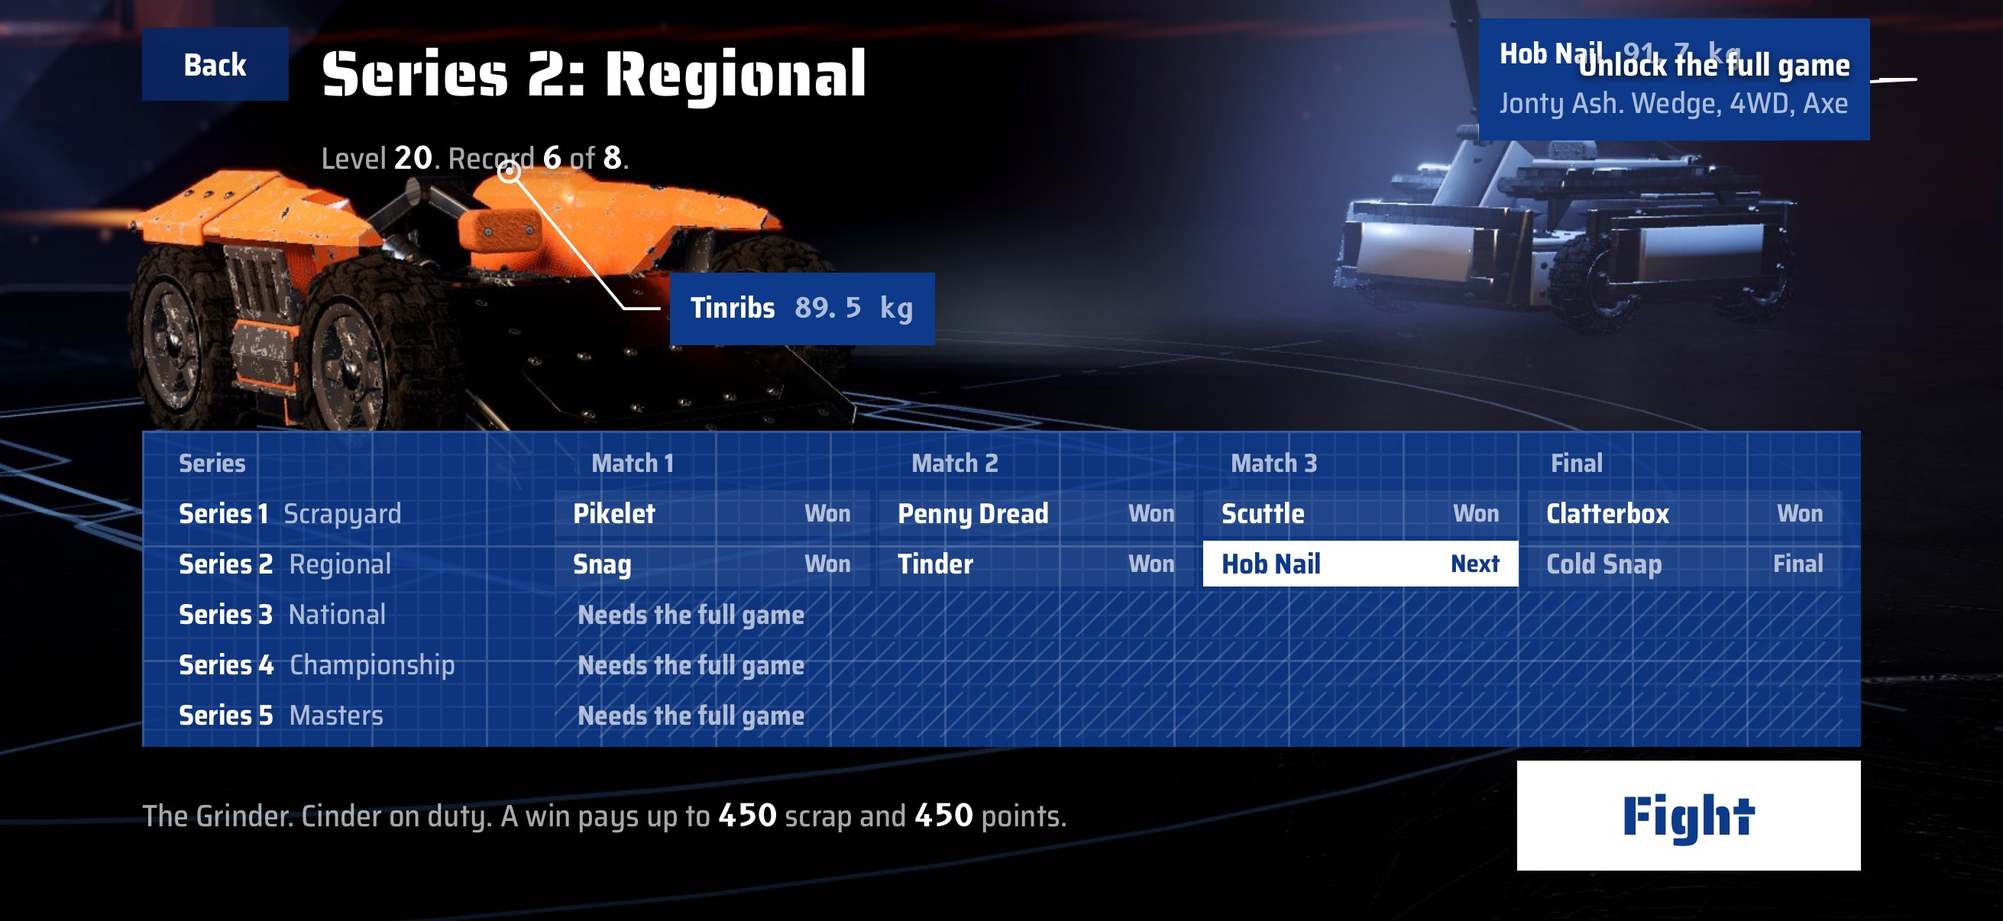
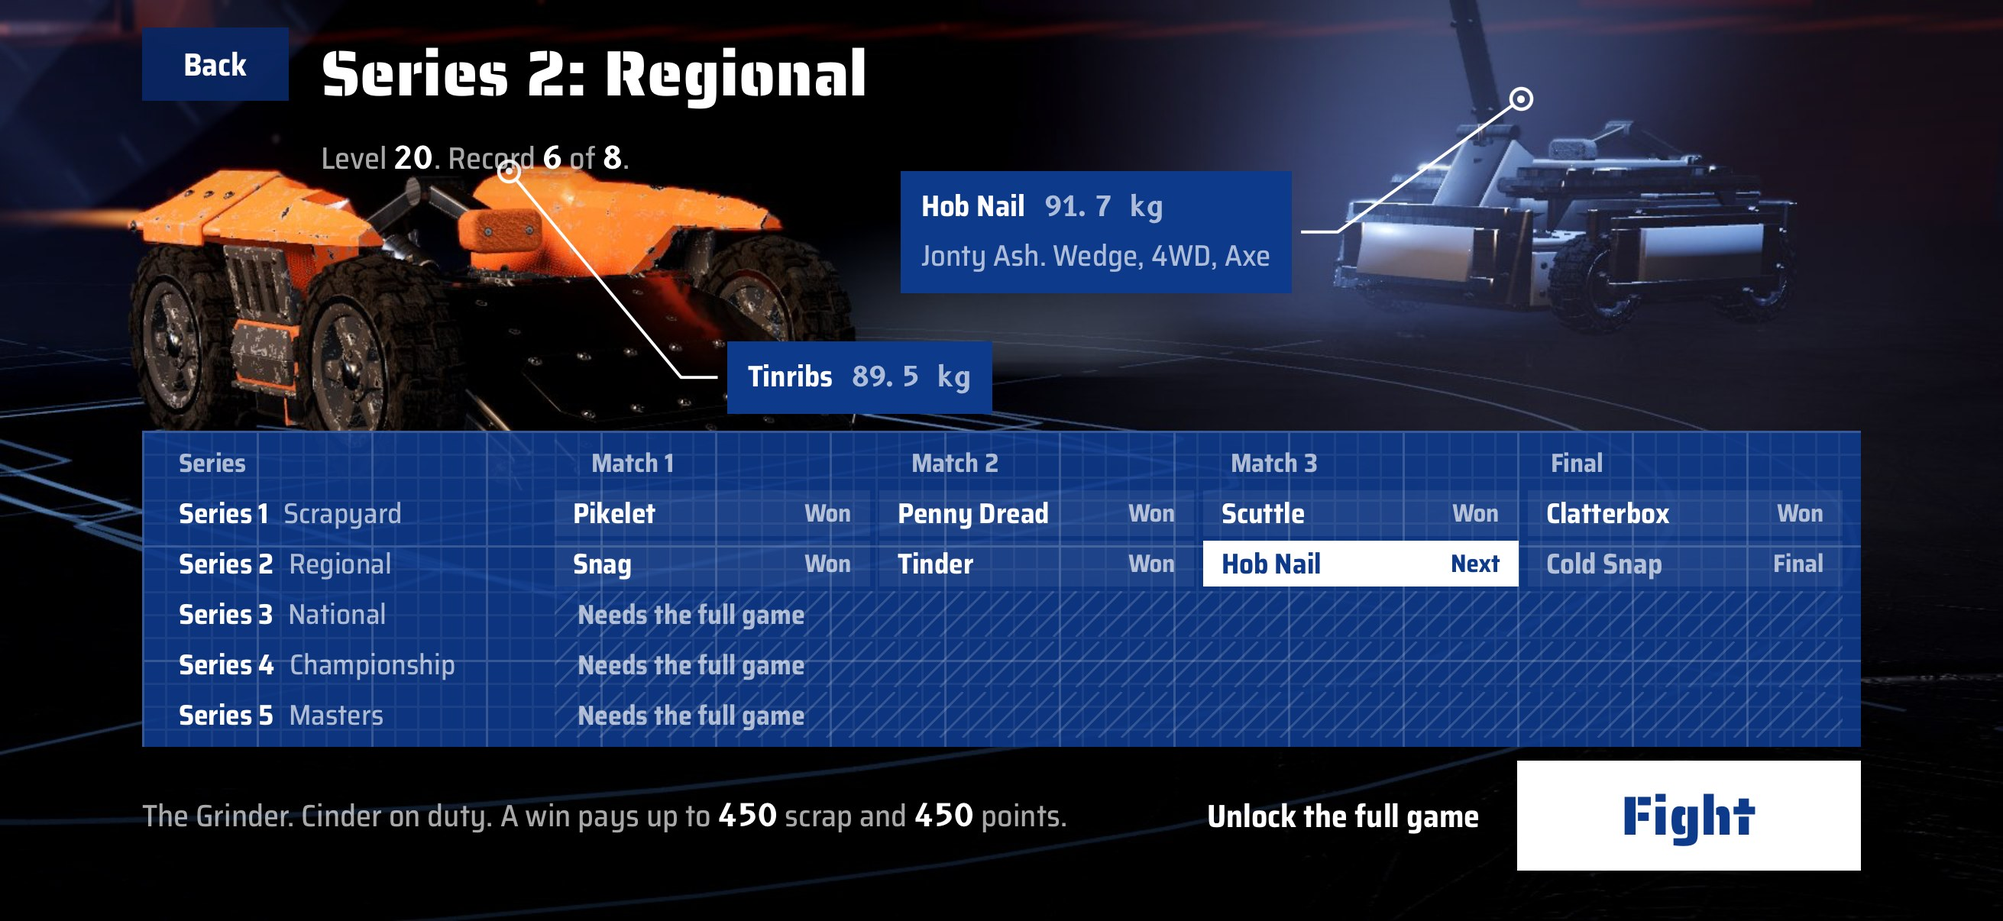
Wave C menus: every stage screen captured at 956 x 440 and 874 x 402 over the real stage renders, review page rebuilt (before / mockup / built, other screens, loading hand over, tiers, both owner switches), notes (tests green incl. hazard determinism after the merge, self test 1027/0, build-sim)
Claude-Session: https://claude.ai/code/session_01Ug4FwDcH494f9qsscef8vF

diff --git a/docs/look/menus-arena-built.html b/docs/look/menus-arena-built.html
@@ -38,12 +38,16 @@ rows lit by the floods and falling off, a faint cold rim, phone glints, the back
 through the venue kit's own crowd interface; the pyro is a narrow fast jet off the gate's own launchers,
 fired on arrival and on a win and never looping; the close screens get moving heads through soft haze
 cones; a blueprint of the machine is projected on the floor round the plinth.</p>
-<section><h2>Main menu</h2><p>The machine is the hero now: about 37 % of the width (the mockup had it at 17 %), lit by the stage key so the orange reads orange. The gate is framed between the machine and the career plate, a jet on each of its launchers on arrival.</p><div class="trio"><figure><img loading="lazy" src="menus-arena/sim/before-menu-956.jpg" alt="before"><figcaption><b>Before.</b> Today's app at 956 x 440.</figcaption></figure><figure><img loading="lazy" src="menus-arena/mockup/menu.jpg" alt="mockup"><figcaption><b>Mockup.</b> Direction A over staging 2 (A2 page).</figcaption></figure><figure><div class="missing">built<br>not captured</div><figcaption><b>Built.</b> The app at 956 x 440, over the real stage render.</figcaption></figure></div><div class="duo"><figure><img loading="lazy" src="menus-arena/sim/built-menu-874.jpg" alt="built 874"><figcaption><b>Built</b> at 874 x 402.</figcaption></figure><figure><img loading="lazy" src="menus-arena/stage/built-menu-956.jpg" alt="stage"><figcaption>The stage alone (desktop Godot, high tier).</figcaption></figure></div></section><section><h2>Builder</h2><p>Close: the bowl is out of frame, so four moving heads sweep through haze behind the machine as soft cones (no fog boxes, no hard edges).</p><div class="trio"><figure><img loading="lazy" src="menus-arena/sim/before-builder-956.jpg" alt="before"><figcaption><b>Before.</b> Today's app at 956 x 440.</figcaption></figure><figure><img loading="lazy" src="menus-arena/mockup/builder.jpg" alt="mockup"><figcaption><b>Mockup.</b> Direction A over staging 2 (A2 page).</figcaption></figure><figure><div class="missing">built<br>not captured</div><figcaption><b>Built.</b> The app at 956 x 440, over the real stage render.</figcaption></figure></div><div class="duo"><figure><img loading="lazy" src="menus-arena/sim/built-builder-874.jpg" alt="built 874"><figcaption><b>Built</b> at 874 x 402.</figcaption></figure><figure><img loading="lazy" src="menus-arena/stage/built-builder-956.jpg" alt="stage"><figcaption>The stage alone (desktop Godot, high tier).</figcaption></figure></div></section><section><h2>Shop</h2><p>The focused part pulled out and framed close, the arena dark behind.</p><div class="trio"><figure><img loading="lazy" src="menus-arena/sim/before-shop-956.jpg" alt="before"><figcaption><b>Before.</b> Today's app at 956 x 440.</figcaption></figure><figure><img loading="lazy" src="menus-arena/mockup/shop.jpg" alt="mockup"><figcaption><b>Mockup.</b> Direction A over staging 2 (A2 page).</figcaption></figure><figure><div class="missing">built<br>not captured</div><figcaption><b>Built.</b> The app at 956 x 440, over the real stage render.</figcaption></figure></div><div class="duo"><figure><img loading="lazy" src="menus-arena/sim/built-shop-874.jpg" alt="built 874"><figcaption><b>Built</b> at 874 x 402.</figcaption></figure><figure><img loading="lazy" src="menus-arena/stage/built-shop-956.jpg" alt="stage"><figcaption>The stage alone (desktop Godot, high tier).</figcaption></figure></div></section><section><h2>Series board</h2><p>The machine and the next opponent across the floor, in the top half over the schedule; the platform is down, so the projected blueprint of the machine shows on the floor.</p><div class="trio"><figure><img loading="lazy" src="menus-arena/sim/before-board-956.jpg" alt="before"><figcaption><b>Before.</b> Today's app at 956 x 440.</figcaption></figure><figure><img loading="lazy" src="menus-arena/mockup/board.jpg" alt="mockup"><figcaption><b>Mockup.</b> Direction A over staging 2 (A2 page).</figcaption></figure><figure><div class="missing">built<br>not captured</div><figcaption><b>Built.</b> The app at 956 x 440, over the real stage render.</figcaption></figure></div><div class="duo"><figure><img loading="lazy" src="menus-arena/sim/built-board-874.jpg" alt="built 874"><figcaption><b>Built</b> at 874 x 402.</figcaption></figure><figure><img loading="lazy" src="menus-arena/stage/built-board-956.jpg" alt="stage"><figcaption>The stage alone (desktop Godot, high tier).</figcaption></figure></div></section><section><h2>Match result</h2><p>The machine centred under the gate; after a win both jets fire with the gerbs.</p><div class="trio"><figure><img loading="lazy" src="menus-arena/sim/before-result-956.jpg" alt="before"><figcaption><b>Before.</b> Today's app at 956 x 440.</figcaption></figure><figure><img loading="lazy" src="menus-arena/mockup/result.jpg" alt="mockup"><figcaption><b>Mockup.</b> Direction A over staging 2 (A2 page).</figcaption></figure><figure><div class="missing">built<br>not captured</div><figcaption><b>Built.</b> The app at 956 x 440, over the real stage render.</figcaption></figure></div><div class="duo"><figure><img loading="lazy" src="menus-arena/sim/built-result-874.jpg" alt="built 874"><figcaption><b>Built</b> at 874 x 402.</figcaption></figure><figure><img loading="lazy" src="menus-arena/stage/built-result-956.jpg" alt="stage"><figcaption>The stage alone (desktop Godot, high tier).</figcaption></figure></div></section>
+<section><h2>Main menu</h2><p>The machine is the hero now: about 37 % of the width (the mockup had it at 17 %), standing clear above the title block, lit by the stage key so the orange reads orange. The gate is framed between the machine and the career plate, a jet on each of its launchers on arrival, the bowl and the truss ring's shafts above.</p><div class="trio"><figure><img loading="lazy" src="menus-arena/sim/before-menu-956.jpg" alt="before"><figcaption><b>Before.</b> Today's app at 956 x 440.</figcaption></figure><figure><img loading="lazy" src="menus-arena/mockup/menu.jpg" alt="mockup"><figcaption><b>Mockup.</b> Direction A over staging 2 (A2 page).</figcaption></figure><figure><img loading="lazy" src="menus-arena/sim/built-menu-956.jpg" alt="built"><figcaption><b>Built.</b> The app at 956 x 440, over the real stage render.</figcaption></figure></div><div class="duo"><figure><img loading="lazy" src="menus-arena/sim/built-menu-874.jpg" alt="built 874"><figcaption><b>Built</b> at 874 x 402.</figcaption></figure><figure><img loading="lazy" src="menus-arena/stage/built-menu-956.jpg" alt="stage"><figcaption>The stage alone (desktop Godot, high tier).</figcaption></figure></div></section><section><h2>Builder</h2><p>Close: the bowl is out of frame, so four moving heads sweep through haze behind the machine as soft cones (no fog boxes, no hard edges).</p><div class="trio"><figure><img loading="lazy" src="menus-arena/sim/before-builder-956.jpg" alt="before"><figcaption><b>Before.</b> Today's app at 956 x 440.</figcaption></figure><figure><img loading="lazy" src="menus-arena/mockup/builder.jpg" alt="mockup"><figcaption><b>Mockup.</b> Direction A over staging 2 (A2 page).</figcaption></figure><figure><img loading="lazy" src="menus-arena/sim/built-builder-956.jpg" alt="built"><figcaption><b>Built.</b> The app at 956 x 440, over the real stage render.</figcaption></figure></div><div class="duo"><figure><img loading="lazy" src="menus-arena/sim/built-builder-874.jpg" alt="built 874"><figcaption><b>Built</b> at 874 x 402.</figcaption></figure><figure><img loading="lazy" src="menus-arena/stage/built-builder-956.jpg" alt="stage"><figcaption>The stage alone (desktop Godot, high tier).</figcaption></figure></div></section><section><h2>Shop</h2><p>The focused part pulled out and framed close, the arena dark behind.</p><div class="trio"><figure><img loading="lazy" src="menus-arena/sim/before-shop-956.jpg" alt="before"><figcaption><b>Before.</b> Today's app at 956 x 440.</figcaption></figure><figure><img loading="lazy" src="menus-arena/mockup/shop.jpg" alt="mockup"><figcaption><b>Mockup.</b> Direction A over staging 2 (A2 page).</figcaption></figure><figure><img loading="lazy" src="menus-arena/sim/built-shop-956.jpg" alt="built"><figcaption><b>Built.</b> The app at 956 x 440, over the real stage render.</figcaption></figure></div><div class="duo"><figure><img loading="lazy" src="menus-arena/sim/built-shop-874.jpg" alt="built 874"><figcaption><b>Built</b> at 874 x 402.</figcaption></figure><figure><img loading="lazy" src="menus-arena/stage/built-shop-956.jpg" alt="stage"><figcaption>The stage alone (desktop Godot, high tier).</figcaption></figure></div></section><section><h2>Series board</h2><p>The machine and the next opponent across the floor, in the top half over the schedule; the platform is down, so the projected blueprint of the machine shows on the floor.</p><div class="trio"><figure><img loading="lazy" src="menus-arena/sim/before-board-956.jpg" alt="before"><figcaption><b>Before.</b> Today's app at 956 x 440.</figcaption></figure><figure><img loading="lazy" src="menus-arena/mockup/board.jpg" alt="mockup"><figcaption><b>Mockup.</b> Direction A over staging 2 (A2 page).</figcaption></figure><figure><img loading="lazy" src="menus-arena/sim/built-board-956.jpg" alt="built"><figcaption><b>Built.</b> The app at 956 x 440, over the real stage render.</figcaption></figure></div><div class="duo"><figure><img loading="lazy" src="menus-arena/sim/built-board-874.jpg" alt="built 874"><figcaption><b>Built</b> at 874 x 402.</figcaption></figure><figure><img loading="lazy" src="menus-arena/stage/built-board-956.jpg" alt="stage"><figcaption>The stage alone (desktop Godot, high tier).</figcaption></figure></div></section><section><h2>Match result</h2><p>The machine centred under the gate; after a win both jets fire with the gerbs.</p><div class="trio"><figure><img loading="lazy" src="menus-arena/sim/before-result-956.jpg" alt="before"><figcaption><b>Before.</b> Today's app at 956 x 440.</figcaption></figure><figure><img loading="lazy" src="menus-arena/mockup/result.jpg" alt="mockup"><figcaption><b>Mockup.</b> Direction A over staging 2 (A2 page).</figcaption></figure><figure><img loading="lazy" src="menus-arena/sim/built-result-956.jpg" alt="built"><figcaption><b>Built.</b> The app at 956 x 440, over the real stage render.</figcaption></figure></div><div class="duo"><figure><img loading="lazy" src="menus-arena/sim/built-result-874.jpg" alt="built 874"><figcaption><b>Built</b> at 874 x 402.</figcaption></figure><figure><img loading="lazy" src="menus-arena/stage/built-result-956.jpg" alt="stage"><figcaption>The stage alone (desktop Godot, high tier).</figcaption></figure></div></section>
 <h2>Every other screen that shows the stage</h2>
-<p>The generic framing: the machine in the clear left, turning slowly, the arena behind.</p>
-<div class="grid"><p>Not captured yet.</p></div>
-<h2>Loading hand over, moves, tiers and the blueprint switch</h2>
-<div class="grid"><figure><img loading="lazy" src="menus-arena/stage/extra-loading-1.jpg" alt="extra-loading-1"><figcaption>Loading, row 2: the machine is being built in the dark, the venue down with the rig.</figcaption></figure><figure><img loading="lazy" src="menus-arena/stage/extra-loading-4.jpg" alt="extra-loading-4"><figcaption>Loading, lights row: the venue comes up with the stage lights; the menu arrives over the same frame.</figcaption></figure><figure><img loading="lazy" src="menus-arena/stage/extra-menu-move.jpg" alt="extra-menu-move"><figcaption>A move in progress: builder to main menu (0.75 s, eased).</figcaption></figure><figure><img loading="lazy" src="menus-arena/stage/extra-result-win.jpg" alt="extra-result-win"><figcaption>Result after a win: both jets and the gerbs.</figcaption></figure><figure><img loading="lazy" src="menus-arena/stage/extra-tier-medium.jpg" alt="extra-tier-medium"><figcaption>Medium tier: the kit's halved crowd and lights, no volumetric fog.</figcaption></figure><figure><img loading="lazy" src="menus-arena/stage/extra-tier-low.jpg" alt="extra-tier-low"><figcaption>Low tier: the bowl without its people, no jets, no shafts.</figcaption></figure><figure><img loading="lazy" src="menus-arena/stage/extra-board-noblueprint.jpg" alt="extra-board-noblueprint"><figcaption>The board with the projected blueprint switched off (MenuVenue.BLUEPRINT), for the owner's call.</figcaption></figure></div>
+<p>The generic framing: the machine in the clear left, turning slowly, the arena behind. Fixed on the way:
+the garage lists every machine at 402 pt, the retry, replays and events sentences sit on plates clear of the
+machine, ladder names never wrap, the quick fight arena cards no longer run into the Opponent heading, and
+the scouting report fits or scrolls in its own column with FIGHT always on screen. 956 x 440 shown; the
+874 x 402 set is in <code>menus-arena/sim/built-*-874.jpg</code>.</p>
+<div class="grid"><figure><img loading="lazy" src="menus-arena/sim/built-career-956.jpg" alt="career"><figcaption>Career</figcaption></figure><figure><img loading="lazy" src="menus-arena/sim/built-events-956.jpg" alt="events"><figcaption>Events</figcaption></figure><figure><img loading="lazy" src="menus-arena/sim/built-garage-956.jpg" alt="garage"><figcaption>Garage</figcaption></figure><figure><img loading="lazy" src="menus-arena/sim/built-ladder-956.jpg" alt="ladder"><figcaption>Ladder</figcaption></figure><figure><img loading="lazy" src="menus-arena/sim/built-loading-956.jpg" alt="loading"><figcaption>Loading</figcaption></figure><figure><img loading="lazy" src="menus-arena/sim/built-quick-956.jpg" alt="quick"><figcaption>Quick</figcaption></figure><figure><img loading="lazy" src="menus-arena/sim/built-replays-956.jpg" alt="replays"><figcaption>Replays</figcaption></figure><figure><img loading="lazy" src="menus-arena/sim/built-retry-956.jpg" alt="retry"><figcaption>Retry</figcaption></figure><figure><img loading="lazy" src="menus-arena/sim/built-rewards-956.jpg" alt="rewards"><figcaption>Rewards</figcaption></figure><figure><img loading="lazy" src="menus-arena/sim/built-scouting-956.jpg" alt="scouting"><figcaption>Scouting</figcaption></figure><figure><img loading="lazy" src="menus-arena/sim/built-settings-956.jpg" alt="settings"><figcaption>Settings</figcaption></figure><figure><img loading="lazy" src="menus-arena/sim/built-unlock-956.jpg" alt="unlock"><figcaption>Unlock</figcaption></figure><figure><img loading="lazy" src="menus-arena/sim/built-workshop-956.jpg" alt="workshop"><figcaption>Workshop</figcaption></figure></div>
+<h2>Loading hand over, moves, tiers and the two owner calls</h2>
+<div class="grid"><figure><img loading="lazy" src="menus-arena/stage/extra-loading-1.jpg" alt="extra-loading-1"><figcaption>Loading, row 2: the machine is being built in the dark, the venue down with the rig.</figcaption></figure><figure><img loading="lazy" src="menus-arena/stage/extra-loading-4.jpg" alt="extra-loading-4"><figcaption>Loading, lights row: the venue comes up with the stage lights; the menu arrives over the same frame.</figcaption></figure><figure><img loading="lazy" src="menus-arena/stage/extra-menu-move.jpg" alt="extra-menu-move"><figcaption>A move in progress: builder to main menu (0.75 s, eased).</figcaption></figure><figure><img loading="lazy" src="menus-arena/stage/extra-result-win.jpg" alt="extra-result-win"><figcaption>Result after a win: both jets and the gerbs.</figcaption></figure><figure><img loading="lazy" src="menus-arena/stage/extra-tier-medium.jpg" alt="extra-tier-medium"><figcaption>Medium tier: the kit's halved crowd and lights, no volumetric fog.</figcaption></figure><figure><img loading="lazy" src="menus-arena/stage/extra-tier-low.jpg" alt="extra-tier-low"><figcaption>Low tier: the bowl without its people, no jets, no shafts.</figcaption></figure><figure><img loading="lazy" src="menus-arena/stage/extra-board-noblueprint.jpg" alt="extra-board-noblueprint"><figcaption>Owner call 1: the board with the projected blueprint switched off (MenuVenue.BLUEPRINT).</figcaption></figure><figure><img loading="lazy" src="menus-arena/stage/extra-jet-co2.jpg" alt="extra-jet-co2"><figcaption>Owner call 2: the jets as white CO2 instead of flame (MenuVenue.JET_STYLE = "co2").</figcaption></figure></div>
 <h2>Cost</h2>
 <p>Desktop Godot at 1912 x 880, main menu, staging against today's showroom (in brackets). Relative numbers
 only; the phone's own frame time is owed from a device run.</p>

diff --git a/docs/look/menus-arena/build_page.py b/docs/look/menus-arena/build_page.py
@@ -14,8 +14,9 @@ OUT = os.path.join(LOOK, "menus-arena-built.html")
 
 SCREENS = [
     ("menu", "Main menu", "The machine is the hero now: about 37 % of the width (the mockup had it at 17 %), "
-     "lit by the stage key so the orange reads orange. The gate is framed between the machine and the "
-     "career plate, a jet on each of its launchers on arrival."),
+     "standing clear above the title block, lit by the stage key so the orange reads orange. The gate is "
+     "framed between the machine and the career plate, a jet on each of its launchers on arrival, the "
+     "bowl and the truss ring's shafts above."),
     ("builder", "Builder", "Close: the bowl is out of frame, so four moving heads sweep through haze behind the "
      "machine as soft cones (no fog boxes, no hard edges)."),
     ("shop", "Shop", "The focused part pulled out and framed close, the arena dark behind."),
@@ -86,7 +87,8 @@ def main():
         ("extra-result-win", "Result after a win: both jets and the gerbs."),
         ("extra-tier-medium", "Medium tier: the kit's halved crowd and lights, no volumetric fog."),
         ("extra-tier-low", "Low tier: the bowl without its people, no jets, no shafts."),
-        ("extra-board-noblueprint", "The board with the projected blueprint switched off (MenuVenue.BLUEPRINT), for the owner's call."),
+        ("extra-board-noblueprint", "Owner call 1: the board with the projected blueprint switched off (MenuVenue.BLUEPRINT)."),
+        ("extra-jet-co2", "Owner call 2: the jets as white CO2 instead of flame (MenuVenue.JET_STYLE = \"co2\")."),
     ]
     extra_html = "".join(f'<figure>{img("menus-arena/stage/" + n + ".jpg", n)}<figcaption>{c}</figcaption></figure>'
                          for n, c in extras)
@@ -133,9 +135,13 @@ fired on arrival and on a win and never looping; the close screens get moving he
 cones; a blueprint of the machine is projected on the floor round the plinth.</p>
 {''.join(parts)}
 <h2>Every other screen that shows the stage</h2>
-<p>The generic framing: the machine in the clear left, turning slowly, the arena behind.</p>
+<p>The generic framing: the machine in the clear left, turning slowly, the arena behind. Fixed on the way:
+the garage lists every machine at 402 pt, the retry, replays and events sentences sit on plates clear of the
+machine, ladder names never wrap, the quick fight arena cards no longer run into the Opponent heading, and
+the scouting report fits or scrolls in its own column with FIGHT always on screen. 956 x 440 shown; the
+874 x 402 set is in <code>menus-arena/sim/built-*-874.jpg</code>.</p>
 <div class="grid">{''.join(others) or '<p>Not captured yet.</p>'}</div>
-<h2>Loading hand over, moves, tiers and the blueprint switch</h2>
+<h2>Loading hand over, moves, tiers and the two owner calls</h2>
 <div class="grid">{extra_html}</div>
 <h2>Cost</h2>
 <p>Desktop Godot at 1912 x 880, main menu, staging against today's showroom (in brackets). Relative numbers

diff --git a/docs/wave-c-menus-notes.md b/docs/wave-c-menus-notes.md
@@ -167,3 +167,34 @@ C4AC945F / Pro D49E6944 sims); iterate on leaders (menu tags landed on the machi
 the other stage screens (career home, career garage 1-row list, retry and replays text over the
 machine, ladder "IRON SPRAT" wrap, rewards, workshop, scouting, events, settings, unlock, loading);
 run build-sim.sh and `-careerSelfTest`.
+
+## Resumed 2026-09-30 (lead): page ready for the owner
+
+- Merged local main 0317511 (hazards + size cuts). The hazards' new floor cutouts showed as black holes
+  round the plinth with the hazards hidden: `MenuVenue._plug_cutouts()` fills each with the floor's own
+  world-planar material. Hidden hazard bodies are dropped whole (their housings with them).
+- 70d8e9b compiled clean. Framing retuned against the real SwiftUI layer: the menu machine stands above
+  the title block (wider 48 deg lens keeps the bowl and the gate in frame); result and generic framings
+  clear of their plates.
+- Owner switches, both in `Arena/workshop/menu_venue.gd`: `BLUEPRINT` (projected plan on the floor, on)
+  and `JET_STYLE` ("flame", or "co2" for a white cryo jet with no fire and no flash light). Captures of
+  the alternatives: `stage/extra-board-noblueprint.jpg`, `stage/extra-jet-co2.jpg`.
+- Integration's three flags fixed, plus what the captures turned up: garage lists every machine at 402 pt
+  (four secondary buttons on one row when short, record line dropped); retry, replays and events
+  sentences on blueprint plates clear of the machine; ladder names never wrap (the roboteer's name
+  truncates first); quick fight arena cards no taller than their 48 pt row (their names ran into the
+  Opponent heading); scouting report fits or scrolls in its own column (at 874 x 402 it ran off the foot
+  and took FIGHT with it) and its machine cards fit name and weight.
+- Captures: every stage screen at 956 x 440 (Menus 17 Pro Max sim) and 874 x 402 (Menus 17 Pro sim),
+  `docs/look/menus-arena/sim/built-*-{956,874}.jpg`, each over the matching desktop Godot render with its
+  own anchors (`-stageStill` / `-stageAnchors`). Page: `docs/look/menus-arena-built.html`
+  (`python3 docs/look/menus-arena/build_page.py`).
+- Career self test on this build: ALL PASS, 1027 checks, 2 warnings (the two known pacing warnings).
+- Godot (headless): stage_menus 57/0, stage_director 34/0, stage_seat 66/0, workshop 88/0,
+  stage_animation 145/0, stage_camera 14/0, stage_build 38/0, warmup 34/0, venue_kit 214/0,
+  determinism 42/0, hazard_determinism 14/0 (green after the merge), bridge 39/0, render 116/0.
+  `scripts/build-sim.sh`: BUILD SUCCEEDED.
+- Known, left: the unlock screen's "what the full game adds" list and the settings list scroll inside
+  their plates at 402 pt (a sentence sits at the fold); the career home and the loading column keep
+  their wave B layouts on blueprint plates (the loading screen is direction A of its own). Phone checks
+  still owed: frame time with the venue, the venue build at the start of loading, memory.
